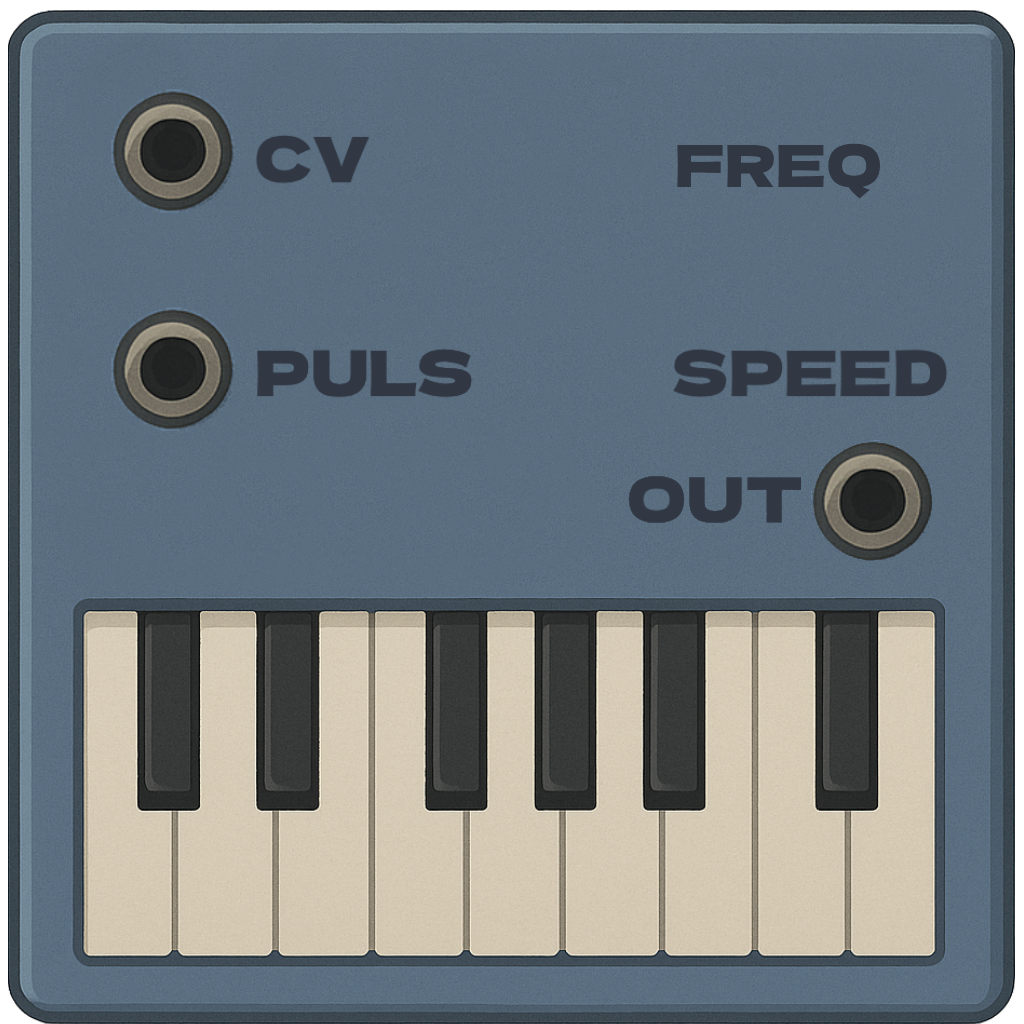
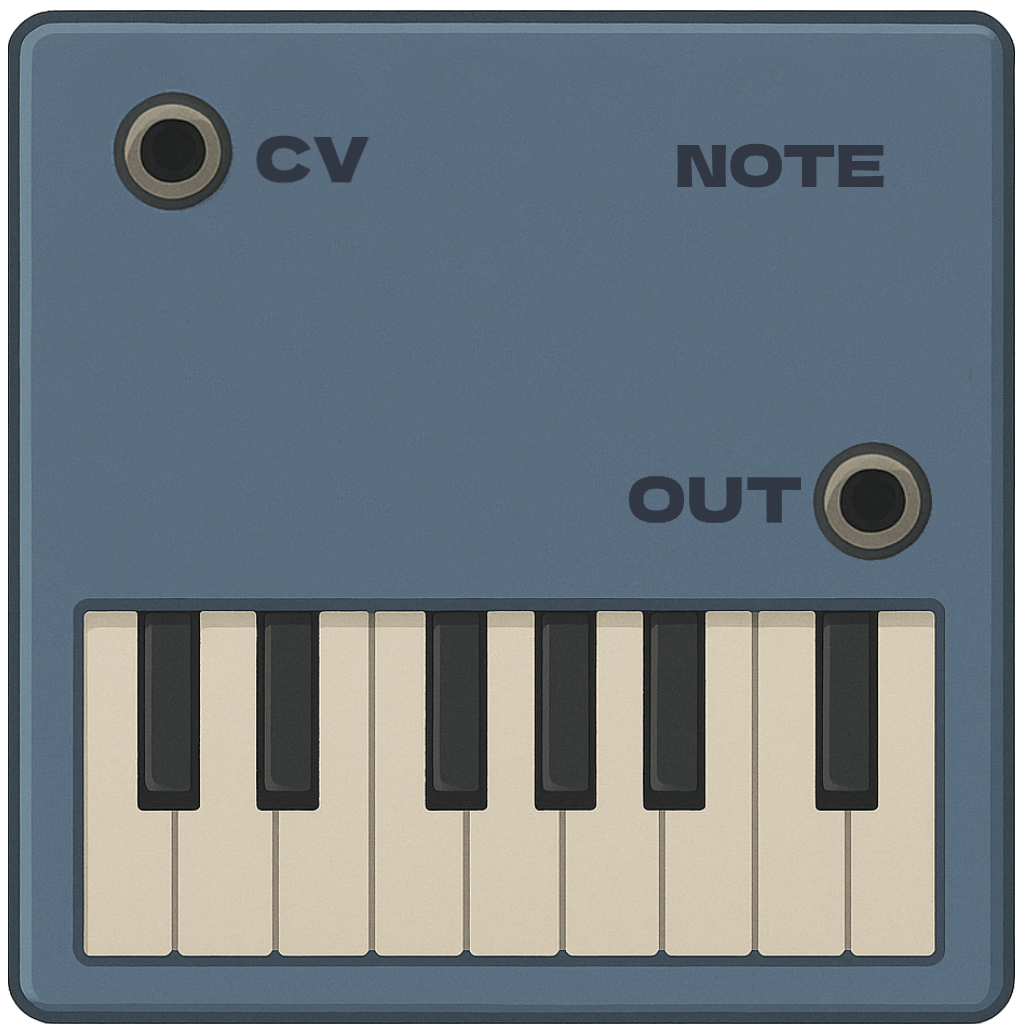
added the quantizer

Changed region(s): [[0.0938, 0.2812, 0.4688, 0.4375], [0.6562, 0.3438, 0.9375, 0.4062], [0.6562, 0.125, 0.875, 0.1875]]

diff --git a/src/components/quantizer.h b/src/components/quantizer.h
@@ -5,8 +5,9 @@
 #include <knob.h>
 #include <button.h>
 #include <components/oscilator.h>
+#include <cmath>
 
-//INPUT 0 CV     1 PULS    -> OUTPUT 0
+//INPUT 0 CV NOTE     -> OUTPUT 0
 
 struct Quantizer: public Component
 {
@@ -17,8 +18,7 @@ struct Quantizer: public Component
 		return Vector2{2,2};
 	}
 
-	Knob freqKnob{Vector2{1.14,0.33}, 0.34};
-	Knob speedKnob{Vector2{1.14,0.73}, 0.34};
+	Knob noteKnob{Vector2{1.14,0.33}, 0.34};
 
 	constexpr static int NOTES_COUNT = 15;
 	Button noteButtons[NOTES_COUNT] = 
@@ -69,8 +69,7 @@ struct Quantizer: public Component
 			{0,0, (float)assetManager.quantizer.width, (float)assetManager.quantizer.height},
 			{position.x,position.y,getSize().x, getSize().y}, {0,0}, 0, WHITE);
 
-		freqKnob.render(assetManager, position);
-		speedKnob.render(assetManager, position);
+		noteKnob.render(assetManager, position);
 
 		for (int i = 0; i < NOTES_COUNT; i++)
 		{
@@ -82,8 +81,7 @@ struct Quantizer: public Component
 	void uiUpdate(Vector2 mousePos)
 	{
 
-		freqKnob.update(mousePos, position);
-		speedKnob.update(mousePos, position);
+		noteKnob.update(mousePos, position);
 		
 		for (int i = 0; i < NOTES_COUNT; i++)
 		{
@@ -94,15 +92,27 @@ struct Quantizer: public Component
 
 	void audioUpdate()
 	{
+
 		outputs[0].output = 0;
+
+		float frequency = 0;
+		frequency = noteKnob.linearRemapWithBias(inputs[0].input, 0, 0.999);
+
+		int notesCount = 0;
+		float cvNote[NOTES_COUNT] = {};
 
 		for (int i = 0; i < NOTES_COUNT; i++)
 		{
 			if (noteButtons[i].on)
 			{
-				outputs[0].output = kNotesC4_to_D5[i].cv;
+				cvNote[notesCount] = kNotesC4_to_D5[i].cv;
+				notesCount++;
 			}
 		}
+
+		if (notesCount == 0) { outputs[0].output = 0; }
+
+		outputs[0].output = cvNote[(int)std::floor(frequency * notesCount)];
 
 	}
 
@@ -111,11 +121,6 @@ struct Quantizer: public Component
 		if (index == 0)
 		{
 			return Vector2{0.35, 0.31};
-		}
-
-		if (index == 1)
-		{
-			return Vector2{0.35, 0.73};
 		}
 
 		return {};
